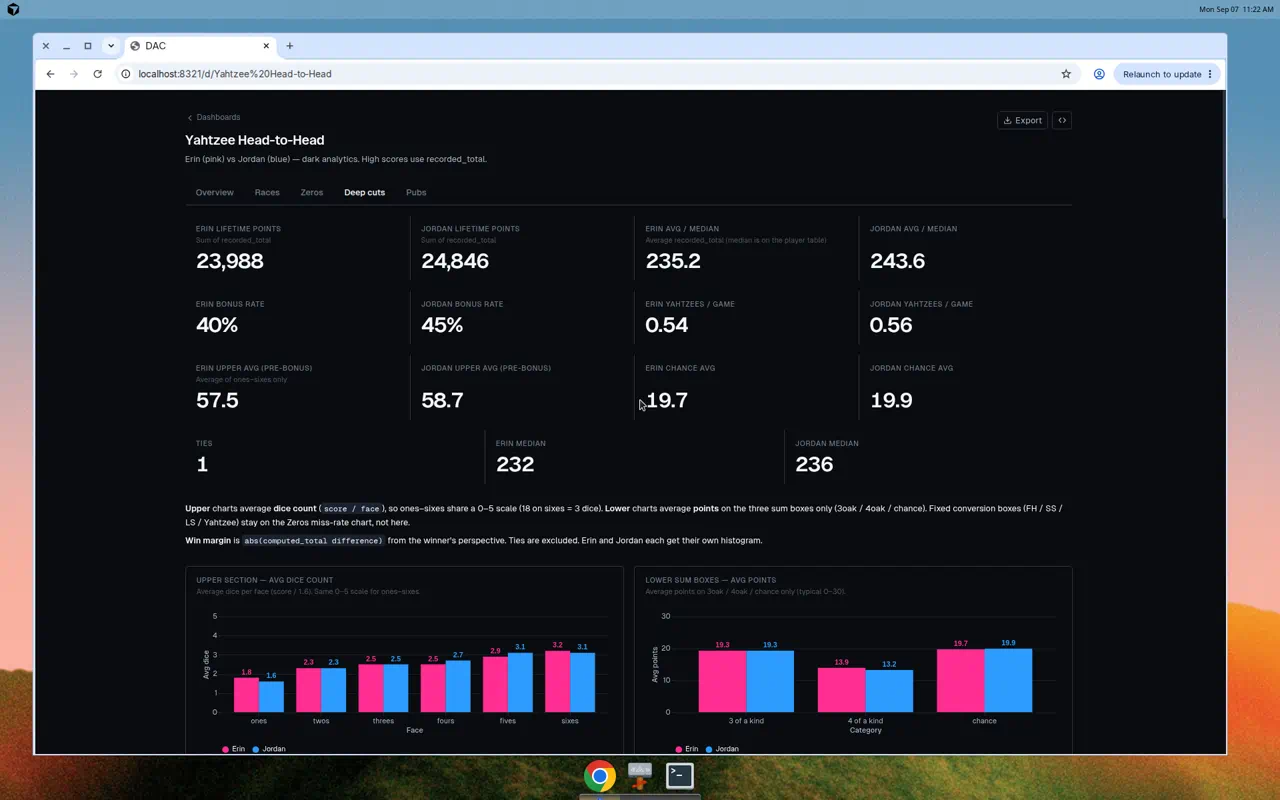
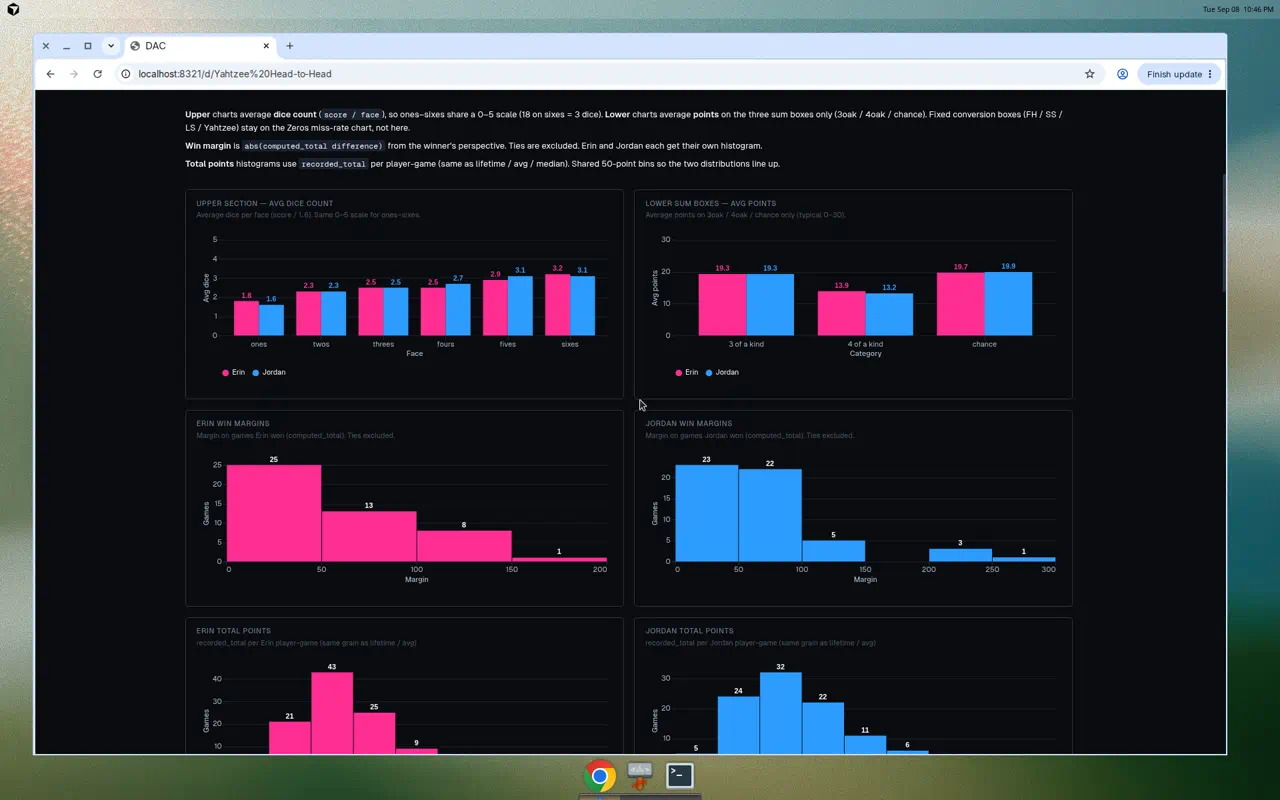
Refresh Deep cuts screenshots with pink/blue KPIs and points histograms.
Capture KPI figures (Erin pink, Jordan blue, ties white) and the new
recorded_total distributions from dac serve --template yahtzee-dark.

diff --git a/dashboard/docs/screenshots/README.md b/dashboard/docs/screenshots/README.md
@@ -7,7 +7,9 @@
 - `races_cumulative.png` — Races tab (cumulative wins / yahtzees through game 102)
 - `races_cumulative_wins.png` — same Races capture (alias)
 - `zeros_conversion.png` — Zeros tab (per-game zeros + miss rates with bar labels)
-- `deep_cuts.png` — Deep cuts (upper dice-count + lower sum-box averages with bar labels; Erin/Jordan win-margin histograms)
+- `deep_cuts.png` — Deep cuts charts (upper dice-count + lower sum-box averages; Erin/Jordan win-margin and recorded_total histograms)
+- `deep_cuts_kpi_colors.png` — Deep cuts KPI figures (Erin pink, Jordan blue, ties white)
+- `deep_cuts_points_histograms.png` — Deep cuts win-margin + recorded_total histograms
 - `pubs_tab_leaflet_link.png` — Pubs tab (Leaflet link + venue table)
 - `leaflet_pub_map_anchor_bar.png` — standalone Leaflet map, Anchor Bar popup (3 visits)
 
